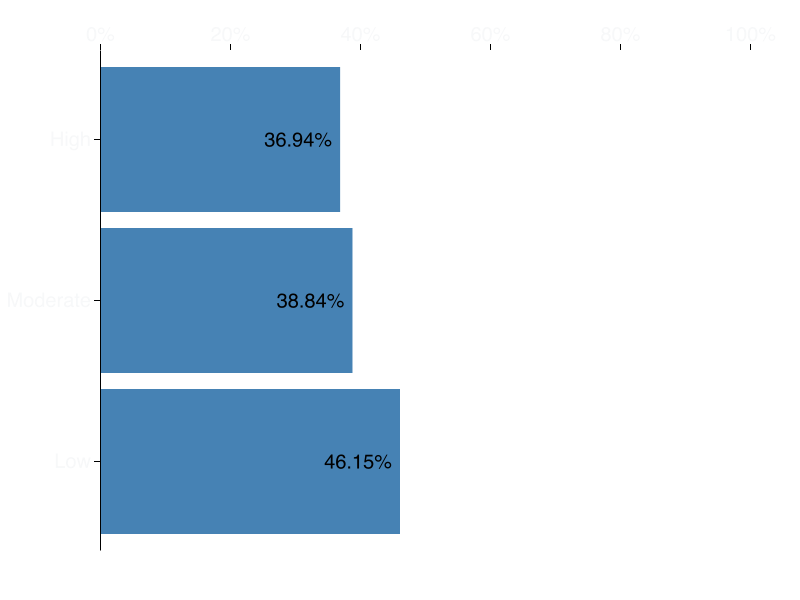
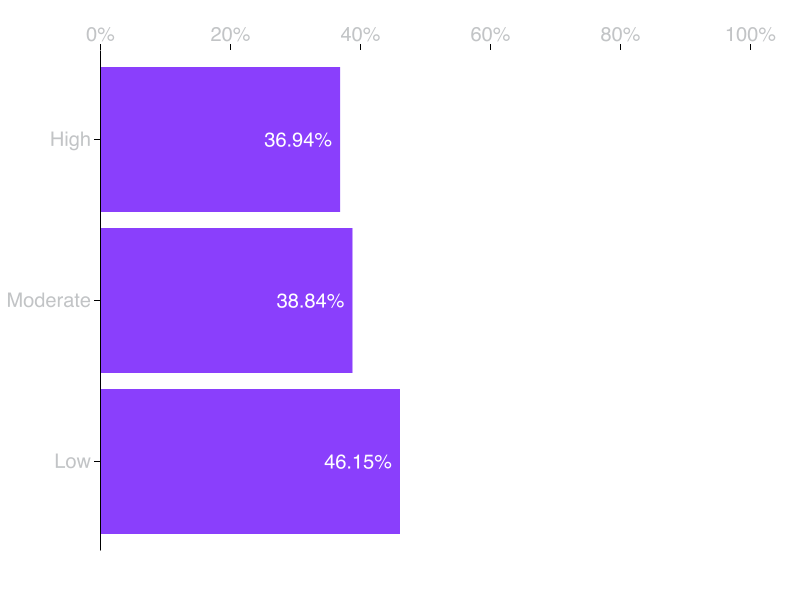
finalized color scheme

diff --git a/generateComplianceMD.js b/generateComplianceMD.js
@@ -532,7 +532,6 @@ async function createGraphs(
   }));
   await horizontalBarGraph(combinedDataset);
 }
-// --------------------------------------------------------------------------------
 
 async function horizontalBarGraph(data, width = 800, height = 600) {
   // Initialize JSDOM instance
@@ -572,7 +571,7 @@ async function horizontalBarGraph(data, width = 800, height = 600) {
   // Append a rect for each data point.
   svg
     .append("g")
-    .attr("fill", "steelblue") // To-Do probably change color
+    .attr("fill", "#8a3ffc")
     .selectAll()
     .data(data)
     .join("rect")
@@ -584,7 +583,7 @@ async function horizontalBarGraph(data, width = 800, height = 600) {
   // Append a label for each data point.
   svg
     .append("g")
-    .attr("fill", "black") // To-Do probably change color
+    .attr("fill", "#FFFFFF")
     .attr("text-anchor", "end")
     .selectAll()
     .data(data)
@@ -609,7 +608,7 @@ async function horizontalBarGraph(data, width = 800, height = 600) {
     .call(d3.axisTop(x).ticks(5, "%"))
     .call((g) => g.select(".domain").remove())
     .selectAll("text")
-    .attr("fill", "#F7F8F9") // Font color
+    .attr("fill", "#C2C4C6") // Font color
     .style("font-family", "Roboto")
     .style("font-size", "20px"); // This updates the X Axis labels
 
@@ -620,7 +619,7 @@ async function horizontalBarGraph(data, width = 800, height = 600) {
     .call(d3.axisLeft(y).tickSizeOuter(0))
     .selectAll("text")
     .style("font-size", "20px") // This updates the Y Axis labels
-    .attr("fill", "#F7F8F9") // Font color
+    .attr("fill", "#C2C4C6") // Font color
     .style("font-family", "Roboto");
 
   // Get the SVG content and save it
@@ -639,7 +638,6 @@ async function horizontalBarGraph(data, width = 800, height = 600) {
   dom.window.document.querySelector("svg").remove();
 }
 
-// --------------------------------------------------------------------------------
 // Function for grouping control families
 function groupByControlFamily(
   uniqueControlIds,
@@ -784,8 +782,25 @@ async function createStackedBarChart(
     .scaleLinear()
     .domain([0, d3.max(stackedData[stackedData.length - 1], (d) => d[1])]) // To-Do Maybe update?
     .range([height - marginBottom, marginTop]); // To-Do Maybe update?
+  
+  const colorPalette = [
+    "#8a3ffc",
+    "#33b1ff",
+    "#007d79",
+    "#ff7eb6",
+    "#fa4d56",
+    "#fff1f1",
+    "#6fdc8c",
+    "#4589ff",
+    "#d12771",
+    "#d2a106",
+    "#08bdba",
+    "#bae6ff",
+    "#ba4e00",
+    "#d4bbff",
+  ];
 
-  const color = d3.scaleOrdinal(d3.schemeCategory10).domain(families); // To-Do Update once Colors have been selected.
+  const color = d3.scaleOrdinal(colorPalette).domain(families);
   console.log(color.domain());
 
   const layers = svg
@@ -936,11 +951,22 @@ async function createDonutChart(data, width = 500) {
   const color = d3
     .scaleOrdinal()
     .domain(data.map((d) => d.name))
-    .range(
-      d3
-        .quantize((t) => d3.interpolateSpectral(t * 0.8 + 0.1), data.length)
-        .reverse()
-    );
+    .range([
+      "#8a3ffc", // Purple 60
+      "#33b1ff", // Cyan 40
+      "#007d79", // Teal 60
+      "#ff7eb6", // Magenta 40
+      "#fa4d56", // Red 50
+      "#fff1f1", // Red 10
+      "#6fdc8c", // Green 30
+      "#4589ff", // Blue 50
+      "#d12771", // Magenta 60
+      "#d2a106", // Yellow 40
+      "#08bdba", // Teal 40
+      "#bae6ff", // Cyan 20
+      "#ba4e00", // Orange 60
+      "#d4bbff", // Purple 30
+    ]);
 
   svg
     .append("g")
